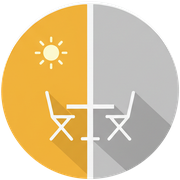
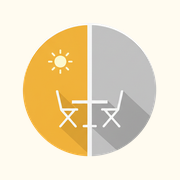
i18n: fix hardcoded strings in DetailPage, improve PWA install & nav UX
- Replace all hardcoded French strings in DetailPage with t() calls (9 keys)
- Add missing i18n keys to all 6 locale files (fr/en/es/de/ja/zh)
- Make entire Nav header title clickable for back navigation
- Add usePWAInstall hook: standalone detection, beforeinstallprompt
  interception (Android), iOS Safari detection, 7-day dismiss cooldown
- Optimize apple-touch-icon with padding for better iOS home screen fit

diff --git a/frontend/src/pages/HomePage.tsx b/frontend/src/pages/HomePage.tsx
@@ -4,6 +4,7 @@ import { useQuery } from "@tanstack/react-query";
 import { useTranslation } from "react-i18next";
 import { useTheme } from "../contexts/ThemeContext";
 import { useFavorites } from "../hooks/useFavorites";
+import { usePWAInstall } from "../hooks/usePWAInstall";
 import { SunIcon, ShadeIcon, MapPinIcon } from "../components/Icons";
 import ModeToggle from "../components/ModeToggle";
 import LanguageSelector from "../components/LanguageSelector";
@@ -29,6 +30,7 @@ export default function HomePage() {
   const { mode, th } = useTheme();
   const { favorites } = useFavorites();
 
+  const { canShow: canShowInstall, platform: installPlatform, triggerInstall, dismiss: dismissInstall } = usePWAInstall();
   const [kpiStationIndex, setKpiStationIndex] = useState(() => Math.floor(Math.random() * KPI_STATIONS.length));
   const [geoLocating, setGeoLocating] = useState(false);
   const [shared, setShared] = useState(false);
@@ -233,15 +235,20 @@ export default function HomePage() {
             </svg>
             {shared ? t("home.linkCopied") : t("home.share")}
           </button>
-          <button onClick={() => setShowInstall(true)} style={{
-            display: "flex", alignItems: "center", gap: 6, background: "none", border: "none",
-            cursor: "pointer", fontFamily: F, fontSize: 13, color: th.textMuted, padding: 0,
-          }}>
-            <svg width="15" height="15" viewBox="0 0 24 24" fill="none" stroke="currentColor" strokeWidth="2" strokeLinecap="round" strokeLinejoin="round">
-              <path d="M21 15v4a2 2 0 0 1-2 2H5a2 2 0 0 1-2-2v-4"/><polyline points="7 10 12 15 17 10"/><line x1="12" y1="15" x2="12" y2="3"/>
-            </svg>
-            {t("home.installApp")}
-          </button>
+          {canShowInstall && (
+            <button onClick={() => {
+              if (installPlatform === "android") triggerInstall();
+              else setShowInstall(true);
+            }} style={{
+              display: "flex", alignItems: "center", gap: 6, background: "none", border: "none",
+              cursor: "pointer", fontFamily: F, fontSize: 13, color: th.textMuted, padding: 0,
+            }}>
+              <svg width="15" height="15" viewBox="0 0 24 24" fill="none" stroke="currentColor" strokeWidth="2" strokeLinecap="round" strokeLinejoin="round">
+                <path d="M21 15v4a2 2 0 0 1-2 2H5a2 2 0 0 1-2-2v-4"/><polyline points="7 10 12 15 17 10"/><line x1="12" y1="15" x2="12" y2="3"/>
+              </svg>
+              {t("home.installApp")}
+            </button>
+          )}
         </div>
 
         {funFacts.length > 0 && (
@@ -257,9 +264,9 @@ export default function HomePage() {
       </div>
 
       <UpdatePrompt />
-      {/* PWA Install Modal */}
+      {/* PWA Install Modal — iOS instructions (Android uses native prompt) */}
       {showInstall && (
-        <div onClick={() => setShowInstall(false)} style={{
+        <div onClick={() => { setShowInstall(false); dismissInstall(); }} style={{
           position: "fixed", inset: 0, background: "rgba(0,0,0,0.5)", zIndex: 9999,
           display: "flex", alignItems: "flex-end", justifyContent: "center",
         }}>
@@ -270,7 +277,7 @@ export default function HomePage() {
           }}>
             <div style={{ display: "flex", justifyContent: "space-between", alignItems: "center", marginBottom: 20 }}>
               <span style={{ fontSize: 18, fontWeight: 700, fontFamily: F, color: "#1C1917" }}>{t("home.installTitle")}</span>
-              <button onClick={() => setShowInstall(false)} style={{
+              <button onClick={() => { setShowInstall(false); dismissInstall(); }} style={{
                 background: "#F5F5F4", border: "none", borderRadius: "50%", width: 32, height: 32,
                 cursor: "pointer", fontSize: 18, color: "#78716C", display: "flex", alignItems: "center", justifyContent: "center",
               }}>×</button>
@@ -279,31 +286,35 @@ export default function HomePage() {
               {t("home.installDescription")}
             </p>
 
-            <div style={{ marginBottom: 20 }}>
-              <div style={{ fontSize: 14, fontWeight: 600, fontFamily: F, color: "#1C1917", marginBottom: 10, display: "flex", alignItems: "center", gap: 8 }}>
-                <svg width="20" height="20" viewBox="0 0 24 24" fill="none"><path d="M18.71 19.5c-.83 1.24-1.71 2.45-3.05 2.47-1.34.03-1.77-.79-3.29-.79-1.53 0-2 .77-3.27.82-1.31.05-2.3-1.32-3.14-2.53C4.25 17 2.94 12.45 4.7 9.39c.87-1.52 2.43-2.48 4.12-2.51 1.28-.02 2.5.87 3.29.87.78 0 2.26-1.07 3.8-.91.65.03 2.47.26 3.64 1.98-.09.06-2.17 1.28-2.15 3.81.03 3.02 2.65 4.03 2.68 4.04-.03.07-.42 1.44-1.38 2.83" fill="#1C1917"/><path d="M13 3.5c.73-.83 1.94-1.46 2.94-1.5.13 1.17-.34 2.35-1.04 3.19-.69.85-1.83 1.51-2.95 1.42-.15-1.15.41-2.35 1.05-3.11" fill="#1C1917"/></svg>
-                iPhone / iPad
+            {installPlatform === "ios" && (
+              <div>
+                <div style={{ fontSize: 14, fontWeight: 600, fontFamily: F, color: "#1C1917", marginBottom: 10, display: "flex", alignItems: "center", gap: 8 }}>
+                  <svg width="20" height="20" viewBox="0 0 24 24" fill="none"><path d="M18.71 19.5c-.83 1.24-1.71 2.45-3.05 2.47-1.34.03-1.77-.79-3.29-.79-1.53 0-2 .77-3.27.82-1.31.05-2.3-1.32-3.14-2.53C4.25 17 2.94 12.45 4.7 9.39c.87-1.52 2.43-2.48 4.12-2.51 1.28-.02 2.5.87 3.29.87.78 0 2.26-1.07 3.8-.91.65.03 2.47.26 3.64 1.98-.09.06-2.17 1.28-2.15 3.81.03 3.02 2.65 4.03 2.68 4.04-.03.07-.42 1.44-1.38 2.83" fill="#1C1917"/><path d="M13 3.5c.73-.83 1.94-1.46 2.94-1.5.13 1.17-.34 2.35-1.04 3.19-.69.85-1.83 1.51-2.95 1.42-.15-1.15.41-2.35 1.05-3.11" fill="#1C1917"/></svg>
+                  iPhone / iPad
+                </div>
+                <ol style={{ margin: 0, paddingLeft: 20, fontSize: 13, color: "#57534E", fontFamily: F, lineHeight: 1.8 }}>
+                  <li>{t("home.iosSteps1")}</li>
+                  <li>{t("home.iosSteps2")} <span style={{ display: "inline-flex", alignItems: "center", verticalAlign: "middle", background: "#F5F5F4", borderRadius: 4, padding: "1px 4px" }}>
+                    <svg width="14" height="14" viewBox="0 0 24 24" fill="none" stroke="#57534E" strokeWidth="2" strokeLinecap="round" strokeLinejoin="round"><path d="M4 12v8a2 2 0 0 0 2 2h12a2 2 0 0 0 2-2v-8"/><polyline points="16 6 12 2 8 6"/><line x1="12" y1="2" x2="12" y2="15"/></svg>
+                  </span></li>
+                  <li>{t("home.iosSteps3")}</li>
+                </ol>
               </div>
-              <ol style={{ margin: 0, paddingLeft: 20, fontSize: 13, color: "#57534E", fontFamily: F, lineHeight: 1.8 }}>
-                <li>{t("home.iosSteps1")}</li>
-                <li>{t("home.iosSteps2")} <span style={{ display: "inline-flex", alignItems: "center", verticalAlign: "middle", background: "#F5F5F4", borderRadius: 4, padding: "1px 4px" }}>
-                  <svg width="14" height="14" viewBox="0 0 24 24" fill="none" stroke="#57534E" strokeWidth="2" strokeLinecap="round" strokeLinejoin="round"><path d="M4 12v8a2 2 0 0 0 2 2h12a2 2 0 0 0 2-2v-8"/><polyline points="16 6 12 2 8 6"/><line x1="12" y1="2" x2="12" y2="15"/></svg>
-                </span></li>
-                <li>{t("home.iosSteps3")}</li>
-              </ol>
-            </div>
+            )}
 
-            <div>
-              <div style={{ fontSize: 14, fontWeight: 600, fontFamily: F, color: "#1C1917", marginBottom: 10, display: "flex", alignItems: "center", gap: 8 }}>
-                <svg width="20" height="20" viewBox="0 0 24 24" fill="none"><path d="M17.523 2H6.477C5.768 2 5.2 2.768 5.2 3.477v17.046C5.2 21.232 5.768 22 6.477 22h11.046c.709 0 1.277-.768 1.277-1.477V3.477C18.8 2.768 18.232 2 17.523 2z" fill="none" stroke="#1C1917" strokeWidth="1.5"/><path d="M3.064 7.044l3.57 2.236 2.578-4.316L12.784 9.3l2.578-4.316 2.578 4.316 2.932-1.836" stroke="#34A853" strokeWidth="1.5" strokeLinecap="round" strokeLinejoin="round" fill="none"/><circle cx="12" cy="15" r="4" fill="none" stroke="#4285F4" strokeWidth="1.5"/><path d="M8 15h8" stroke="#EA4335" strokeWidth="1.5"/><path d="M12 11v8" stroke="#FBBC05" strokeWidth="1.5"/></svg>
-                Android
+            {installPlatform === "android" && (
+              <div>
+                <div style={{ fontSize: 14, fontWeight: 600, fontFamily: F, color: "#1C1917", marginBottom: 10, display: "flex", alignItems: "center", gap: 8 }}>
+                  <svg width="20" height="20" viewBox="0 0 24 24" fill="none"><path d="M17.523 2H6.477C5.768 2 5.2 2.768 5.2 3.477v17.046C5.2 21.232 5.768 22 6.477 22h11.046c.709 0 1.277-.768 1.277-1.477V3.477C18.8 2.768 18.232 2 17.523 2z" fill="none" stroke="#1C1917" strokeWidth="1.5"/><path d="M3.064 7.044l3.57 2.236 2.578-4.316L12.784 9.3l2.578-4.316 2.578 4.316 2.932-1.836" stroke="#34A853" strokeWidth="1.5" strokeLinecap="round" strokeLinejoin="round" fill="none"/><circle cx="12" cy="15" r="4" fill="none" stroke="#4285F4" strokeWidth="1.5"/><path d="M8 15h8" stroke="#EA4335" strokeWidth="1.5"/><path d="M12 11v8" stroke="#FBBC05" strokeWidth="1.5"/></svg>
+                  Android
+                </div>
+                <ol style={{ margin: 0, paddingLeft: 20, fontSize: 13, color: "#57534E", fontFamily: F, lineHeight: 1.8 }}>
+                  <li>{t("home.androidSteps1")}</li>
+                  <li>{t("home.androidSteps2")}</li>
+                  <li>{t("home.androidSteps3")}</li>
+                </ol>
               </div>
-              <ol style={{ margin: 0, paddingLeft: 20, fontSize: 13, color: "#57534E", fontFamily: F, lineHeight: 1.8 }}>
-                <li>{t("home.androidSteps1")}</li>
-                <li>{t("home.androidSteps2")}</li>
-                <li>{t("home.androidSteps3")}</li>
-              </ol>
-            </div>
+            )}
           </div>
         </div>
       )}

diff --git a/frontend/src/pages/DetailPage.tsx b/frontend/src/pages/DetailPage.tsx
@@ -126,7 +126,7 @@ export default function DetailPage() {
           </div>
 
           {/* Right: big location button */}
-          <a href={`https://maps.apple.com/?q=${terrasse.lat},${terrasse.lon}&ll=${terrasse.lat},${terrasse.lon}`} target="_blank" rel="noopener noreferrer" title="Itinéraire"
+          <a href={`https://maps.apple.com/?q=${terrasse.lat},${terrasse.lon}&ll=${terrasse.lat},${terrasse.lon}`} target="_blank" rel="noopener noreferrer" title={t("detail.directions")}
             style={{ width: 62, height: 62, borderRadius: "50%", background: "rgba(255,255,255,0.22)", display: "flex", alignItems: "center", justifyContent: "center", flexShrink: 0 }}>
             <MapPinIcon size={30} color="#FFF" />
           </a>
@@ -171,10 +171,10 @@ export default function DetailPage() {
               <div style={{ fontFamily: F, fontSize: 13, color: "#B45309" }}>{timelineData.meteo_resume}</div>
               {currentSlot && currentSlot.uv_index > 0 && (() => {
                 const uv = currentSlot.uv_index;
-                const { label, color } = uv <= 2 ? { label: "UV faible", color: "#166534" }
-                  : uv <= 5 ? { label: "UV modéré", color: "#854D0E" }
-                  : uv <= 7 ? { label: "UV fort", color: "#9A3412" }
-                  : { label: "UV très fort", color: "#991B1B" };
+                const { label, color } = uv <= 2 ? { label: t("uv.uvLow"), color: "#166534" }
+                  : uv <= 5 ? { label: t("uv.uvModerate"), color: "#854D0E" }
+                  : uv <= 7 ? { label: t("uv.uvHigh"), color: "#9A3412" }
+                  : { label: t("uv.uvVeryHigh"), color: "#991B1B" };
                 return <span style={{ fontSize: 12, fontWeight: 600, color, fontFamily: F }}>{uv} · {label}</span>;
               })()}
             </div>
@@ -189,7 +189,7 @@ export default function DetailPage() {
         {/* Hourly slider */}
         <div style={{ marginBottom: 24 }}>
           <span style={{ fontSize: 12, fontWeight: 600, color: th.textSoft, letterSpacing: 0.5, textTransform: "uppercase", marginBottom: 10, display: "block" }}>
-            Ensoleillement
+            {t("detail.sunlight")}
           </span>
           <div style={{ position: "relative" }}>
             {/* Visual cells */}
@@ -233,7 +233,7 @@ export default function DetailPage() {
               color: isFav(terrasse.id) ? "#EF4444" : th.text, fontFamily: F, fontSize: 14, fontWeight: 500,
             }}>
             <HeartIcon filled={isFav(terrasse.id)} size={17} />
-            {isFav(terrasse.id) ? "Retirer des favoris" : "Ajouter aux favoris"}
+            {isFav(terrasse.id) ? t("detail.removeFavorite") : t("detail.addFavorite")}
           </button>
           <button onClick={() => handleShare(terrasse.nom, terrasse.adresse, terrasse.id)}
             style={{
@@ -245,14 +245,14 @@ export default function DetailPage() {
               <circle cx="18" cy="5" r="3"/><circle cx="6" cy="12" r="3"/><circle cx="18" cy="19" r="3"/>
               <line x1="8.59" y1="13.51" x2="15.42" y2="17.49"/><line x1="15.41" y1="6.51" x2="8.59" y2="10.49"/>
             </svg>
-            {shared ? "Copié !" : "Envoyer aux potes"}
+            {shared ? t("detail.copied") : t("detail.shareText")}
           </button>
         </div>
 
         {/* Sunny hours pills */}
         <div style={{ marginTop: 24, padding: "16px 18px", background: th.bgCard, borderRadius: 14, border: `1px solid ${th.border}` }}>
           <div style={{ fontSize: 12, fontWeight: 600, color: th.textSoft, letterSpacing: 0.5, textTransform: "uppercase", marginBottom: 10 }}>
-            Créneaux {mode === "sun" ? "ensoleillés" : "ombragés"}
+            {mode === "sun" ? t("detail.sunnySlots") : t("detail.shadySlots")}
           </div>
           <div style={{ display: "flex", flexWrap: "wrap", gap: 6 }}>
             {(() => {
@@ -266,7 +266,7 @@ export default function DetailPage() {
                   <span key={h} onClick={() => setSearchHour(h)} style={{ padding: "6px 14px", borderRadius: 100, fontSize: 13, fontWeight: 500, background: h === selectedHour ? th.accent : th.accentLight, color: h === selectedHour ? "#FFF" : th.accentDark, fontFamily: F, cursor: "pointer" }}>{h}</span>
                 ))
               ) : (
-                <span style={{ fontSize: 13, color: th.textMuted }}>Aucun créneau disponible</span>
+                <span style={{ fontSize: 13, color: th.textMuted }}>{t("detail.noSlotAvailable")}</span>
               );
             })()}
           </div>

diff --git a/frontend/src/hooks/usePWAInstall.ts b/frontend/src/hooks/usePWAInstall.ts
@@ -1,0 +1,77 @@
+import { useState, useEffect, useCallback } from "react";
+
+interface BeforeInstallPromptEvent extends Event {
+  prompt(): Promise<void>;
+  userChoice: Promise<{ outcome: "accepted" | "dismissed" }>;
+}
+
+const STORAGE_KEY = "pwa-install-dismissed";
+const DELAY_DAYS = 7;
+
+function isStandalone(): boolean {
+  return (
+    window.matchMedia("(display-mode: standalone)").matches ||
+    (navigator as unknown as { standalone?: boolean }).standalone === true
+  );
+}
+
+function isIOS(): boolean {
+  return /iphone|ipad|ipod/i.test(navigator.userAgent);
+}
+
+function isIOSSafari(): boolean {
+  return isIOS() && /^((?!chrome|android).)*safari/i.test(navigator.userAgent);
+}
+
+function wasDismissedRecently(): boolean {
+  const dismissed = localStorage.getItem(STORAGE_KEY);
+  if (!dismissed) return false;
+  const daysSince = (Date.now() - parseInt(dismissed, 10)) / 86_400_000;
+  return daysSince <= DELAY_DAYS;
+}
+
+export type InstallPlatform = "android" | "ios" | null;
+
+export function usePWAInstall() {
+  const [deferredPrompt, setDeferredPrompt] =
+    useState<BeforeInstallPromptEvent | null>(null);
+  const [platform, setPlatform] = useState<InstallPlatform>(null);
+  const [canShow, setCanShow] = useState(false);
+
+  useEffect(() => {
+    if (isStandalone() || wasDismissedRecently()) return;
+
+    // Android / desktop Chrome — native prompt
+    const handler = (e: Event) => {
+      e.preventDefault();
+      setDeferredPrompt(e as BeforeInstallPromptEvent);
+      setPlatform("android");
+      setCanShow(true);
+    };
+    window.addEventListener("beforeinstallprompt", handler);
+
+    // iOS Safari — manual instructions
+    if (isIOSSafari()) {
+      setPlatform("ios");
+      setCanShow(true);
+    }
+
+    return () => window.removeEventListener("beforeinstallprompt", handler);
+  }, []);
+
+  const triggerInstall = useCallback(async () => {
+    if (!deferredPrompt) return;
+    deferredPrompt.prompt();
+    await deferredPrompt.userChoice;
+    setDeferredPrompt(null);
+    setCanShow(false);
+  }, [deferredPrompt]);
+
+  const dismiss = useCallback(() => {
+    localStorage.setItem(STORAGE_KEY, Date.now().toString());
+    setCanShow(false);
+    setDeferredPrompt(null);
+  }, []);
+
+  return { canShow, platform, triggerInstall, dismiss };
+}

diff --git a/frontend/src/components/Nav.tsx b/frontend/src/components/Nav.tsx
@@ -15,11 +15,18 @@ export default function Nav({ back, title, onBack }: NavProps) {
 
   return (
     <div style={{ display: "flex", alignItems: "center", justifyContent: "space-between", padding: "12px 20px", position: "sticky", top: 0, zIndex: 10, background: th.bg, borderBottom: `1px solid ${th.border}` }}>
-      <div style={{ display: "flex", alignItems: "center", gap: 8 }}>
-        {back && <button onClick={onBack} style={{ background: "none", border: "none", cursor: "pointer", padding: 4, color: th.accent }}><BackIcon /></button>}
-        <span style={{ fontSize: 22, lineHeight: 1 }}>{mode === "sun" ? "\u2600\uFE0F" : "\u2601\uFE0F"}</span>
-        {title && <span style={{ fontFamily: F, fontWeight: 600, fontSize: 16, color: th.text }}>{title}</span>}
-      </div>
+      {back ? (
+        <button onClick={onBack} style={{ display: "flex", alignItems: "center", gap: 8, background: "none", border: "none", cursor: "pointer", padding: "4px 8px", margin: "-4px -8px", color: th.text }}>
+          <BackIcon />
+          <span style={{ fontSize: 22, lineHeight: 1 }}>{mode === "sun" ? "\u2600\uFE0F" : "\u2601\uFE0F"}</span>
+          {title && <span style={{ fontFamily: F, fontWeight: 600, fontSize: 16, color: th.text }}>{title}</span>}
+        </button>
+      ) : (
+        <div style={{ display: "flex", alignItems: "center", gap: 8 }}>
+          <span style={{ fontSize: 22, lineHeight: 1 }}>{mode === "sun" ? "\u2600\uFE0F" : "\u2601\uFE0F"}</span>
+          {title && <span style={{ fontFamily: F, fontWeight: 600, fontSize: 16, color: th.text }}>{title}</span>}
+        </div>
+      )}
       <div style={{ display: "flex", flexDirection: "column", alignItems: "flex-end", gap: 6 }}>
         <ModeToggle />
         <LanguageSelector />
